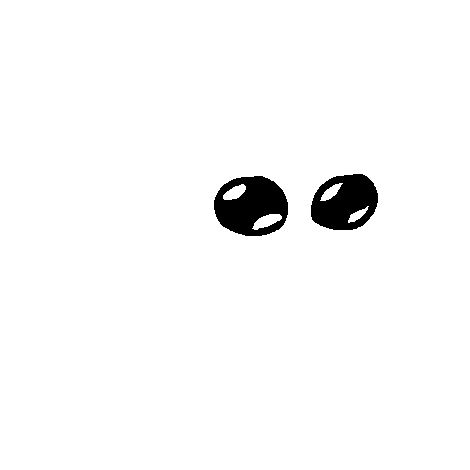
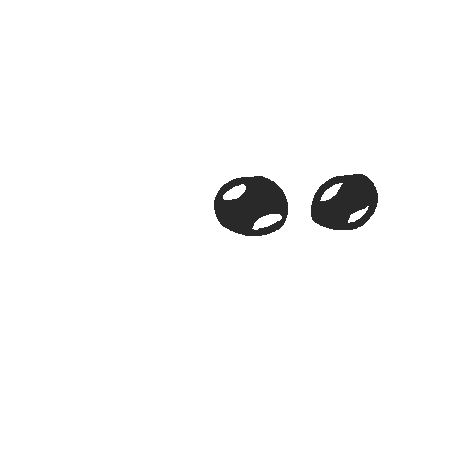
Darkness now works, layers drawn properly

Changed region(s): [[0.4468, 0.3574, 0.6255, 0.5064], [0.6553, 0.3574, 0.8043, 0.5064]]

diff --git a/player.py b/player.py
@@ -44,6 +44,7 @@ class Player(pygame.sprite.Sprite):
         self.art["walkL"].append(pygame.transform.flip(pygame.transform.scale(pygame.image.load("data/assets/little_guy/little_guy3.png"), (94, 94)), 1, 0))
 
         self.art["eyes"].append(pygame.transform.scale(pygame.image.load("data/assets/little_guy/eyes.png"), (94, 94)))
+        self.art["eyes"].append(pygame.transform.flip(pygame.transform.scale(pygame.image.load("data/assets/little_guy/eyes.png"), (94, 94)), 1, 0))
 
 
     def interact(self):
@@ -77,12 +78,14 @@ class Player(pygame.sprite.Sprite):
             dx = self.directory.level.borders[0] - self.x
         
         # Then, if player moved, check for objects in hitbox, if so, highlight
-        if dx != 0:
-            for obj in self.directory.objects:
-                if obj.rect.colliderect(self.hitbox):
-                    obj.highlighted = True
-                else:
-                    obj.highlighted = False
+        for obj in self.directory.objects:
+            if obj.rect.colliderect(self.hitbox):
+                obj.highlighted = True
+            else:
+                obj.highlighted = False
+                
+            # Redraw highlight layer
+
         
         # Move the player
         # Player will not move vertically
@@ -126,6 +129,7 @@ class Player(pygame.sprite.Sprite):
     def draw(self):
         # Fill surface with transparent pixels
         self.directory.surfaces['player'].fill((0, 0, 0, 0))
+        self.directory.surfaces['eyes'].fill((0, 0, 0, 0))
 
         # Draw rects
         #pygame.draw.rect(self.directory.surfaces['player'], (100, 200, 200, 125), self.hitbox)
@@ -136,15 +140,20 @@ class Player(pygame.sprite.Sprite):
         if self.moving_left or self.moving_right:
             if self.direction == 'left':
                 self.directory.surfaces['player'].blit(self.art["walkL"][self.frame // 10], (self.x, self.y))
+                self.directory.surfaces['eyes'].blit(self.art["eyes"][1], (self.x, self.y))
             elif self.direction == 'right':
                 self.directory.surfaces['player'].blit(self.art["walkR"][self.frame // 10], (self.x, self.y))
+                self.directory.surfaces['eyes'].blit(self.art["eyes"][0], (self.x, self.y))
             
             self.frame += 1
             if self.frame > 39:
                 self.frame = 0
+        
         else:
             self.frame = 0
             if self.direction == 'left':
                 self.directory.surfaces['player'].blit(self.art["idle"][1], (self.x, self.y))
+                self.directory.surfaces['eyes'].blit(self.art["eyes"][1], (self.x, self.y))
             elif self.direction == 'right':
                 self.directory.surfaces['player'].blit(self.art["idle"][0], (self.x, self.y))
+                self.directory.surfaces['eyes'].blit(self.art["eyes"][0], (self.x, self.y))

diff --git a/darkness.py b/darkness.py
@@ -33,9 +33,6 @@ class DarknessGame:
 
         # Load the first level
         self.level.loadLevel([0, 'none'])
-        self.directory.link('surface', self.level.visual_surface, "visual")
-        self.directory.link('surface', self.level.object_surface, "object")
-        self.directory.link('surface', self.level.player_surface, "player")
         self.directory.link('surface', self.level.extra_surface, "extra")
 
         # Running flag
@@ -92,6 +89,7 @@ class DarknessGame:
         # Objects
         # Clear object surface
         self.directory.surfaces['object'].fill((0, 0, 0, 0))
+        self.directory.surfaces['highlight'].fill((0, 0, 0, 0))
         
         # Then draw objects onto it
         for obj in self.directory.objects:
@@ -116,7 +114,24 @@ class DarknessGame:
         # Display the layers
         self.window.blit(self.directory.surfaces['visual'], (x_offset, 0))
         self.window.blit(self.directory.surfaces['object'], (x_offset, 0))
-        self.window.blit(self.directory.surfaces['player'], (x_offset, 0))
+
+        # Make sure the proper layers are drawn when lights are on vs. off
+        # I KNOW this can be prettier.
+        # Probably
+        if f"light{self.level.level}" in self.directory.flags:
+            if self.directory.flags[f"light{self.level.level}"] == True:
+                #self.window.blit(self.directory.surfaces['player'], (x_offset, 0))
+                self.window.blit(self.directory.surfaces['darkness'], (x_offset, 0))
+                self.window.blit(self.directory.surfaces['highlight'], (x_offset, 0))
+                self.window.blit(self.directory.surfaces['eyes'], (x_offset, 0))
+            else:
+                self.window.blit(self.directory.surfaces['highlight'], (x_offset, 0))
+                self.window.blit(self.directory.surfaces['player'], (x_offset, 0))
+        
+        else:
+            self.window.blit(self.directory.surfaces['highlight'], (x_offset, 0))
+            self.window.blit(self.directory.surfaces['player'], (x_offset, 0))
+
         self.window.blit(self.directory.surfaces['extra'], (0, 0))
     
 

diff --git a/level.py b/level.py
@@ -17,6 +17,8 @@ class Level:
 
         self.visual_surface = pygame.Surface((100, 100))
         self.object_surface = pygame.Surface((100, 100))
+        self.darkness_surface = pygame.Surface((100, 100))
+        self.eyes_surface = pygame.Surface((100, 100))
 
         # For fades to black
         self.extra_surface = pygame.Surface((640, 640)).convert_alpha()
@@ -84,15 +86,26 @@ class Level:
         self.visual_surface = pygame.Surface((self.width, self.height))
         self.object_surface = pygame.Surface((self.width, self.height)).convert_alpha()
         self.player_surface = pygame.Surface((self.width, self.height)).convert_alpha()
+        self.highlight_surface = pygame.Surface((self.width, self.height)).convert_alpha()
+        self.eyes_surface = pygame.Surface((self.width, self.height)).convert_alpha()
+        self.darkness_surface = pygame.Surface((self.width, self.height)).convert_alpha()
 
         # Make sure the object surface is transparent
         self.object_surface.fill((0, 0, 0, 0))
         self.player_surface.fill((0, 0, 0, 0))
+        self.eyes_surface.fill((0, 0, 0, 0))
+        self.darkness_surface.fill((0, 0, 0, 255))
+        self.highlight_surface.fill((0, 0, 0, 0))
 
         # And link the new one
         self.directory.surfaces['visual'] = self.visual_surface
         self.directory.surfaces['object'] = self.object_surface
         self.directory.surfaces['player'] = self.player_surface
+        self.directory.surfaces['highlight'] = self.highlight_surface
+        self.directory.surfaces['eyes'] = self.eyes_surface
+        self.directory.surfaces['darkness'] = self.darkness_surface
+
+        #pygame.draw.rect(self.directory.surfaces['darkness'], (0, 0, 0, 0), (0, 176, 640, 288))
 
         # Clear old level data while we're at it
         self.directory.objects.clear()

diff --git a/door.py b/door.py
@@ -36,7 +36,8 @@ class Door(pygame.sprite.Sprite):
 
     def draw(self):
         # Display the image
+        # Uhh, fix this
         if self.highlighted:
-            self.directory.surfaces['visual'].blit(self.image_highlighted, (self.x, self.y))
+            self.directory.surfaces['highlight'].blit(self.image_highlighted, (self.x, self.y))
         else:
             self.directory.surfaces['visual'].blit(self.image, (self.x, self.y))

diff --git a/lightswitch.py b/lightswitch.py
@@ -48,4 +48,6 @@ class Lightswitch:
         pygame.draw.rect(self.directory.surfaces['object'], self.color, self.rect)
         
         if self.highlighted:
-            pygame.draw.rect(self.directory.surfaces['object'], (0, 0, 0), self.highlight_rect, 5)
+            pygame.draw.rect(self.directory.surfaces['highlight'], (200, 200, 200), self.highlight_rect, 5)
+        
+        self.highlighted = False
